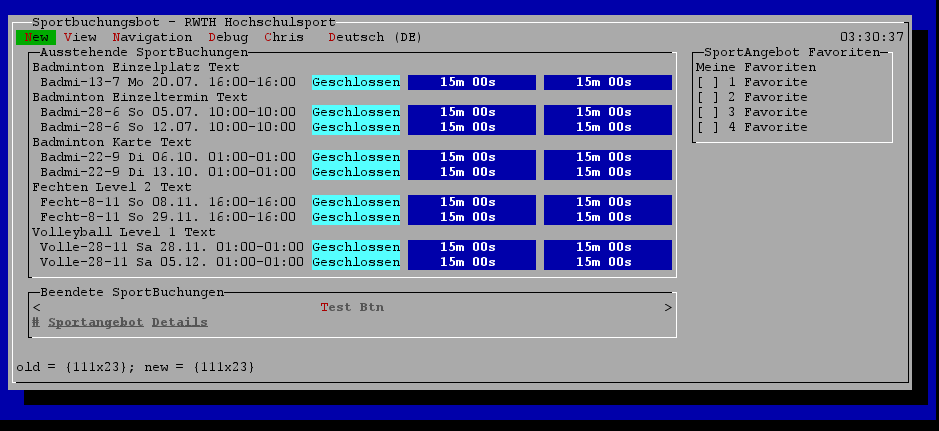
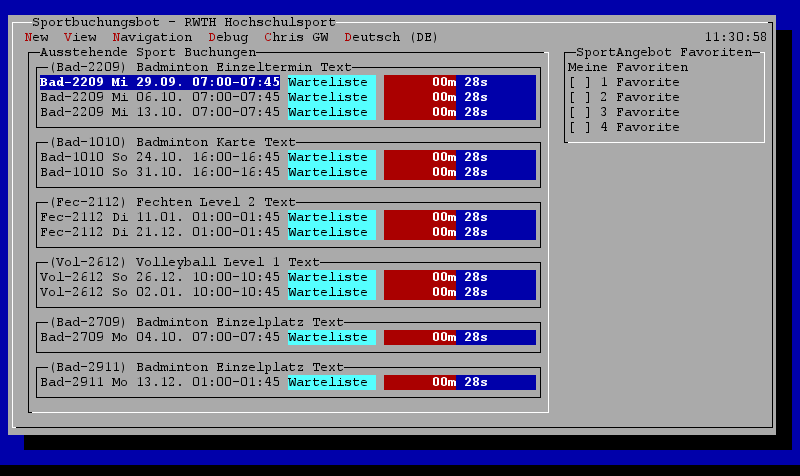
update README.md and fix some little bugs

diff --git a/src/main/java/de/chrisgw/sportsbookingsniper/gui/menu/MainMenuBarComponent.java b/src/main/java/de/chrisgw/sportsbookingsniper/gui/menu/MainMenuBarComponent.java
@@ -16,8 +16,9 @@ import com.googlecode.lanterna.input.KeyType;
 import de.chrisgw.sportsbookingsniper.SportBookingModelTestUtil;
 import de.chrisgw.sportsbookingsniper.buchung.SportBuchungsJob;
 import de.chrisgw.sportsbookingsniper.buchung.Teilnehmer;
-import de.chrisgw.sportsbookingsniper.gui.component.BasicPanelComponent;
 import de.chrisgw.sportsbookingsniper.gui.buchung.SportBuchungDialog;
+import de.chrisgw.sportsbookingsniper.gui.component.AnimatedClock;
+import de.chrisgw.sportsbookingsniper.gui.component.BasicPanelComponent;
 import de.chrisgw.sportsbookingsniper.gui.state.ApplicationStateDao;
 import de.chrisgw.sportsbookingsniper.gui.teilnehmer.TeilnehmerFormDialog;
 import de.chrisgw.sportsbookingsniper.gui.teilnehmer.TeilnehmerVerwaltungWindow;
@@ -53,7 +54,7 @@ public class MainMenuBarComponent extends BasicPanelComponent {
                 .add(languageMenu());
 
         addComponent(menuBar, Location.CENTER);
-        // addComponent(new AnimatedClock(), Location.RIGHT);
+        addComponent(new AnimatedClock(), Location.RIGHT);
     }
 
     private MenuItem createSwitchThemeMenuItem() {

diff --git a/src/main/java/de/chrisgw/sportsbookingsniper/buchung/ScheduledSportBuchungsJob.java b/src/main/java/de/chrisgw/sportsbookingsniper/buchung/ScheduledSportBuchungsJob.java
@@ -109,7 +109,7 @@ public class ScheduledSportBuchungsJob implements Future<SportBuchungsBestaetigu
 
 
     public void retryNow() {
-        boolean cancel = scheduledBuchungsVersuch.cancel(false);
+        boolean cancel = scheduledBuchungsVersuch == null || scheduledBuchungsVersuch.cancel(false);
         if (cancel) {
             scheduledBuchungsVersuch = scheduleBuchungsVersuch(Duration.ZERO);
         }
@@ -118,7 +118,9 @@ public class ScheduledSportBuchungsJob implements Future<SportBuchungsBestaetigu
 
     @Override
     public boolean cancel(boolean mayInterruptIfRunning) {
-        scheduledBuchungsVersuch.cancel(mayInterruptIfRunning);
+        if (scheduledBuchungsVersuch != null) {
+            scheduledBuchungsVersuch.cancel(mayInterruptIfRunning);
+        }
         return futureBuchungsBestaetigung.cancel(mayInterruptIfRunning);
     }
 

diff --git a/src/main/java/de/chrisgw/sportsbookingsniper/gui/SportBookingMainWindow.java b/src/main/java/de/chrisgw/sportsbookingsniper/gui/SportBookingMainWindow.java
@@ -79,7 +79,7 @@ public class SportBookingMainWindow extends BasicWindow {
             public void onUnhandledInput(Window basePane, KeyStroke keyStroke, AtomicBoolean hasBeenHandled) {
                 if (KeyType.Escape.equals(keyStroke.getKeyType()) //
                         || (keyStroke.isAltDown() && KeyType.F4.equals(keyStroke.getKeyType())) //
-                        || (keyStroke.isCtrlDown() && keyStroke.getCharacter() == 'c')) {
+                        || (keyStroke.isCtrlDown() && Character.valueOf('c').equals(keyStroke.getCharacter()))) {
                     MessageDialogButton selectedButton = new MessageDialogBuilder() //
                             .setTitle("SportBookingSniper wirklich beenden?")
                             .setText("Wenn Sie den SportBookingSniper beenden, können keine\n"

diff --git a/src/main/java/de/chrisgw/sportsbookingsniper/gui/buchung/AusstehendeSportBuchungsJobPanel.java b/src/main/java/de/chrisgw/sportsbookingsniper/gui/buchung/AusstehendeSportBuchungsJobPanel.java
@@ -118,7 +118,6 @@ public class AusstehendeSportBuchungsJobPanel extends Panel implements SportBuch
     private void newSportBuchungsJobDialog() {
         Optional<SportBuchungsJob> savedSportBuchungsJob = new SportBuchungDialog(applicationStateDao) //
                 .showDialog((WindowBasedTextGUI) getTextGUI());
-        savedSportBuchungsJob.ifPresent(this::onNewPendingSportBuchungsJob);
         savedSportBuchungsJob.ifPresent(applicationStateDao::addSportBuchungsJob);
         getBasePane().setFocusedInteractable(nextFocus(null));
     }

diff --git a/src/main/java/de/chrisgw/sportsbookingsniper/gui/component/AnimatedClock.java b/src/main/java/de/chrisgw/sportsbookingsniper/gui/component/AnimatedClock.java
@@ -20,7 +20,7 @@ public class AnimatedClock extends AnimatedLabel {
     public AnimatedClock(DateTimeFormatter timeFormatter) {
         super(timeFormatter.format(LocalDateTime.now().withNano(0)));
         this.timeFormatter = timeFormatter;
-        startAnimation(200);
+        startAnimation(1000);
     }
 
 

diff --git a/README.md b/README.md
@@ -2,28 +2,40 @@
 
 
 # Sports Booking Sniper
+
+[![Latest-Release](https://img.shields.io/github/v/release/Chris-GW/Sports-Booking-Sniper?include_prereleases)](https://github.com/Chris-GW/Sports-Booking-Sniper/releases)
+[![Java CI with Maven](https://github.com/Chris-GW/Sports-Booking-Sniper/actions/workflows/maven.yml/badge.svg)](https://github.com/Chris-GW/Sports-Booking-Sniper/actions/workflows/maven.yml)
+[![GitHub issues](https://img.shields.io/github/issues/Chris-GW/Sports-Booking-Sniper)](https://github.com/Chris-GW/Sports-Booking-Sniper/issues)
+[![GitHub stars](https://img.shields.io/github/stars/Chris-GW/Sports-Booking-Sniper)](https://github.com/Chris-GW/Sports-Booking-Sniper/stargazers)
+[![GitHub license](https://img.shields.io/github/license/Chris-GW/Sports-Booking-Sniper)](https://github.com/Chris-GW/Sports-Booking-Sniper/blob/main/LICENSE)
+
 > Console GUI with selenium web booking agent for [HSZ RWTH Aachen](https://hochschulsport.rwth-aachen.de/cms/~icgi/HSZ/) sports offer
 
-
-[![Java CI with Maven](https://github.com/Chris-GW/Sports-Booking-Sniper/actions/workflows/maven.yml/badge.svg)](https://github.com/Chris-GW/Sports-Booking-Sniper/actions/workflows/maven.yml) [![GitHub issues](https://img.shields.io/github/issues/Chris-GW/Sports-Booking-Sniper)](https://github.com/Chris-GW/Sports-Booking-Sniper/issues) [![GitHub stars](https://img.shields.io/github/stars/Chris-GW/Sports-Booking-Sniper)](https://github.com/Chris-GW/Sports-Booking-Sniper/stargazers) [![GitHub license](https://img.shields.io/github/license/Chris-GW/Sports-Booking-Sniper)](https://github.com/Chris-GW/Sports-Booking-Sniper/blob/main/LICENSE)
-
 [![Sports-Booking-Sniper](img/Main%20GUI%20Screenshot%20.png)](https://github.com/Chris-GW/Sports-Booking-Sniper)
+[![Sports-Booking-Sniper](img/Sport%20Buchung%20Personenangaben%20Formular.gif)](https://github.com/Chris-GW/Sports-Booking-Sniper)
 ---
 
 ## Installation
-Sports Booking Sniper requires Maven to be running on JRE 11+.
+Sports Booking Sniper requires Maven to be running on JRE 11+.  
+Releases are available on the [Sports Booking Sniper release page](https://github.com/Chris-GW/Sports-Booking-Sniper/releases).
 
 ```shell
 mvn package
-java -jar sportbooking-2.0.0-SNAPSHOT-jar-with-dependencies.jar
+java -jar sportbooking-{version}-jar-with-dependencies.jar
 ```
 
 ---
 
 ## Features
 
-- Simple console GUI with lanterna
--  
+- Simple console GUI with [Lanterna](https://github.com/mabe02/lanterna)  
+Lanterna is a Java library allowing you to write easy semi-graphical user interfaces in a text-only environment, very similar to the C library curses but with more functionality.
+- Selenium Agent automatically performs the sports bookings for you in the background.
+- Supports the booking of many different [HSZ RWTH Aachen](https://hochschulsport.rwth-aachen.de/cms/~icgi/HSZ/) sports offers. 
+  - Sports tickets for a whole semester
+  - single date sport bookings 
+  - single sport place bookings
+- Works great on raspberry pi or any other single board computers
 
 ---
 
